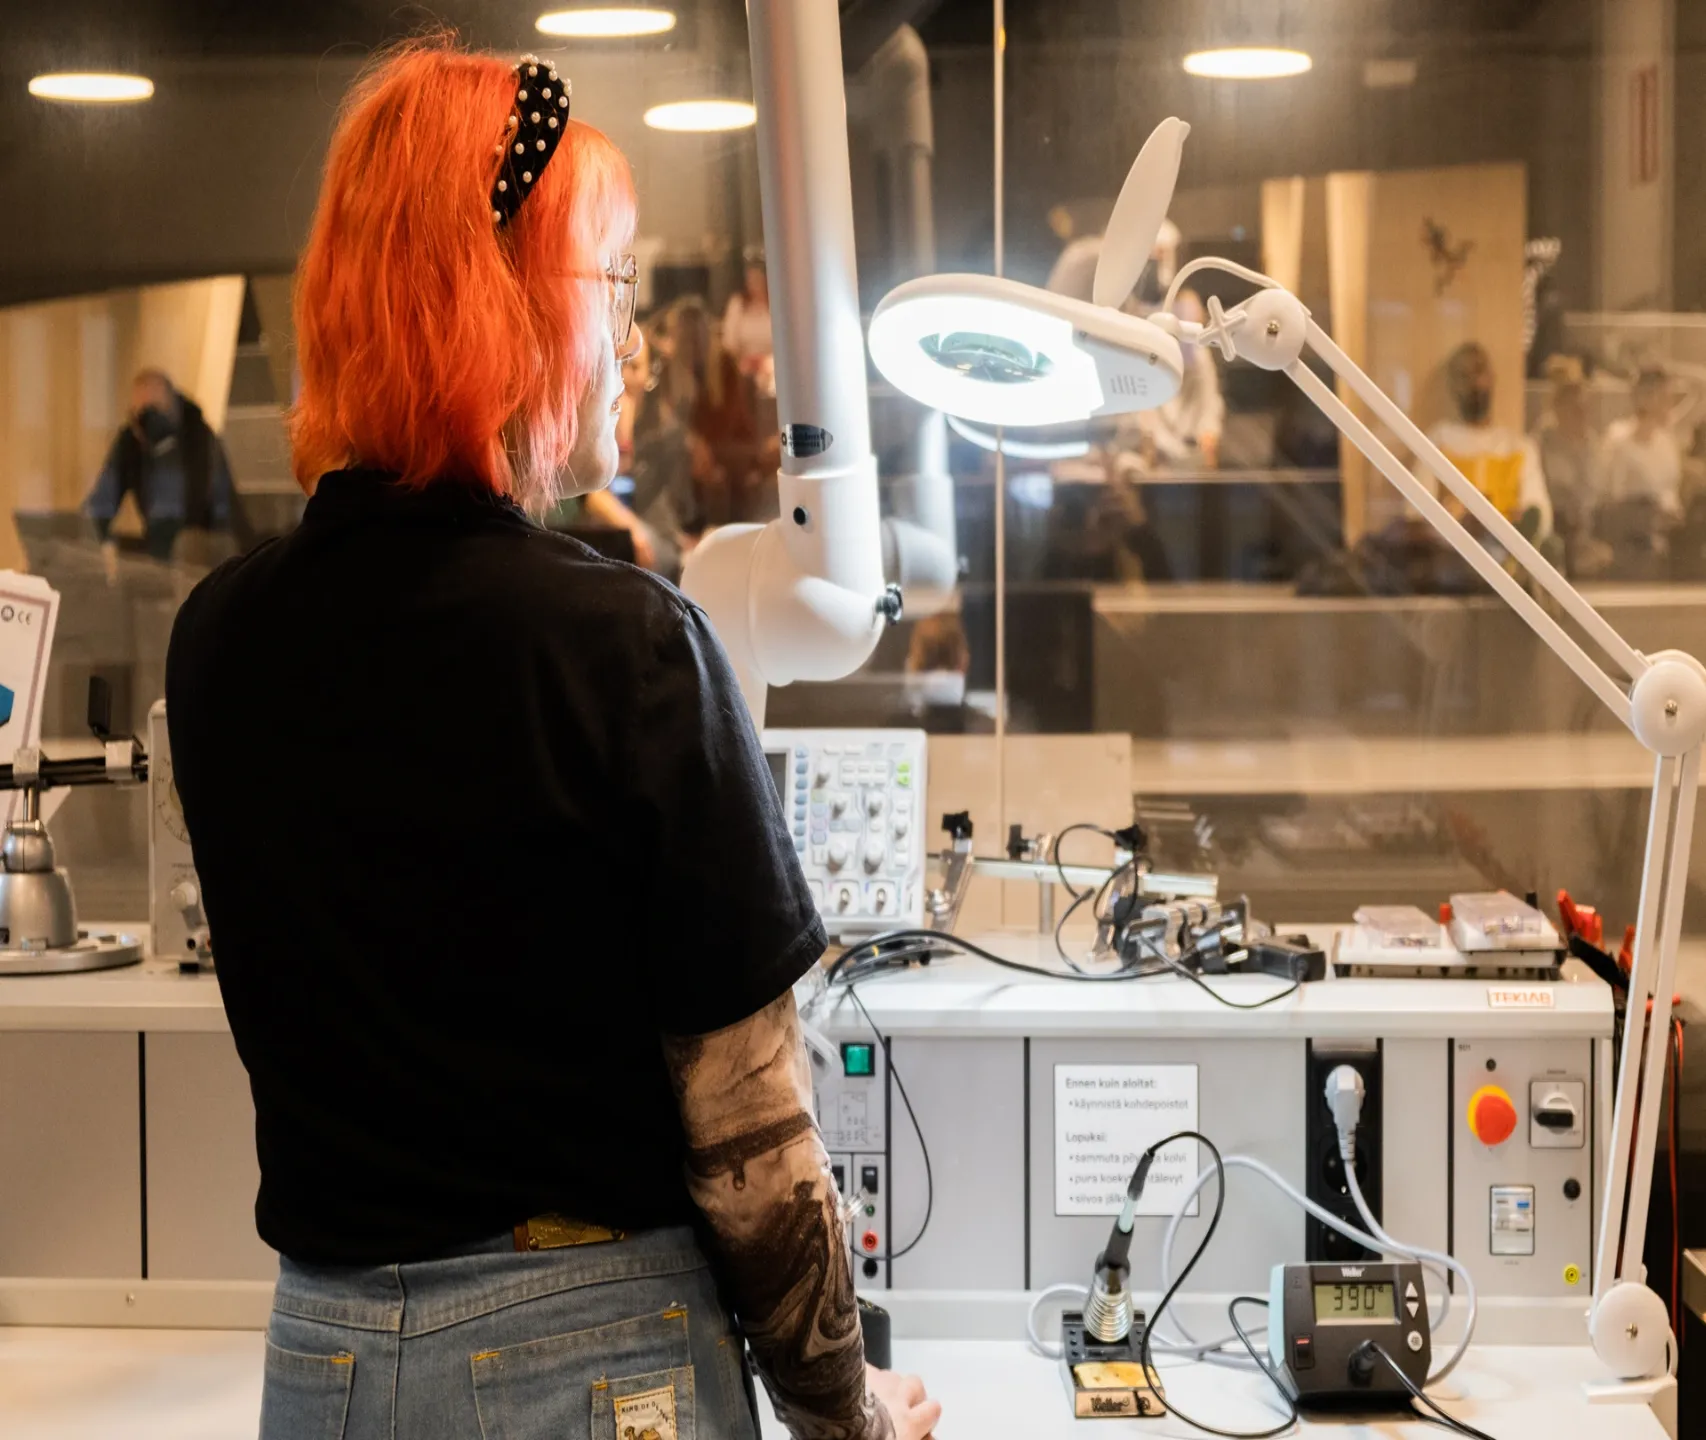
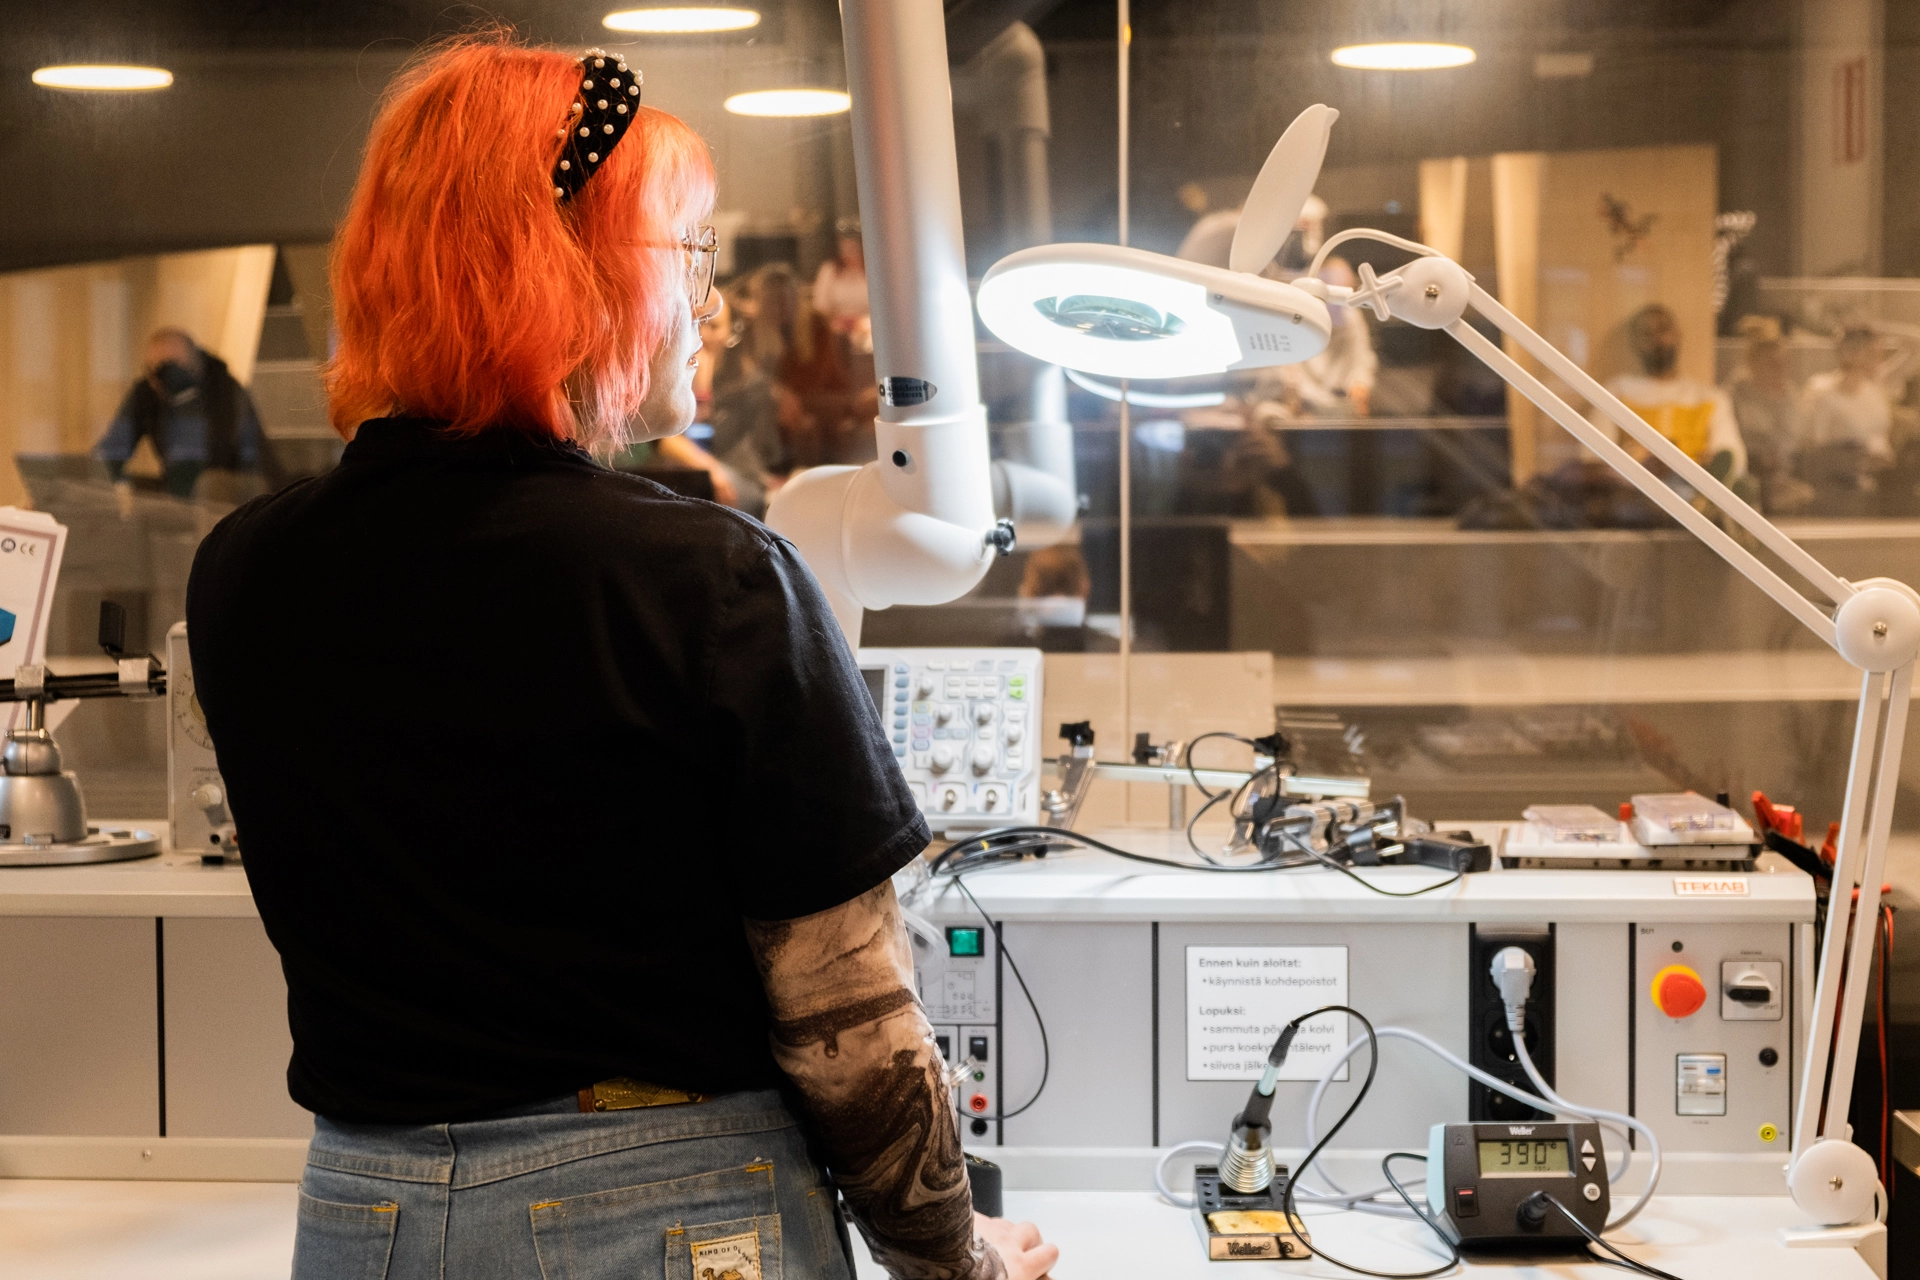
replaced project image

Changed region(s): [[0.932, 0.6875, 0.9941, 0.875], [0.9631, 0.875, 0.9941, 0.9062]]

diff --git a/src/langLocal/en.js b/src/langLocal/en.js
@@ -4,8 +4,8 @@ import { StoriesCarousel_Item } from "../pages/Stories/Carousel/StoriesCarousel_
 import Qteatteri from "../pages/Projects/assets/carousel/MEDIA_QTEATTERI.webp";
 import Qteatteri_small from "../pages/Projects/assets/carousel/MEDIA_QTEATTERI_SMALL.webp";
 
-import Oodi from "../pages/Projects/assets/carousel/MEDIA_OODI.webp";
-import Oodi_small from "../pages/Projects/assets/carousel/MEDIA_OODI_SMALL.webp";
+import Oodi from "../pages/Projects/assets/carousel/MEDIA_OODI_2.webp";
+import Oodi_small from "../pages/Projects/assets/carousel/MEDIA_OODI_2_SMALL.webp";
 
 import MoiPanda from "../pages/Projects/assets/carousel/MEDIA_MOIPANDA.webp";
 import MoiPanda_small from "../pages/Projects/assets/carousel/MEDIA_MOIPANDA_SMALL.webp";

diff --git a/src/langLocal/fi.js b/src/langLocal/fi.js
@@ -4,8 +4,8 @@ import { StoriesCarousel_Item } from "../pages/Stories/Carousel/StoriesCarousel_
 import Qteatteri from "../pages/Projects/assets/carousel/MEDIA_QTEATTERI.webp";
 import Qteatteri_small from "../pages/Projects/assets/carousel/MEDIA_QTEATTERI_SMALL.webp";
 
-import Oodi from "../pages/Projects/assets/carousel/MEDIA_OODI.webp";
-import Oodi_small from "../pages/Projects/assets/carousel/MEDIA_OODI_SMALL.webp";
+import Oodi from "../pages/Projects/assets/carousel/MEDIA_OODI_2.webp";
+import Oodi_small from "../pages/Projects/assets/carousel/MEDIA_OODI_2_SMALL.webp";
 
 import MoiPanda from "../pages/Projects/assets/carousel/MEDIA_MOIPANDA.webp";
 import MoiPanda_small from "../pages/Projects/assets/carousel/MEDIA_MOIPANDA_SMALL.webp";
